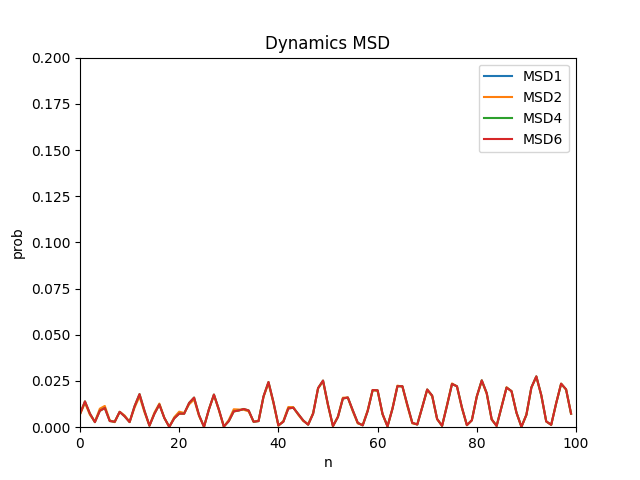
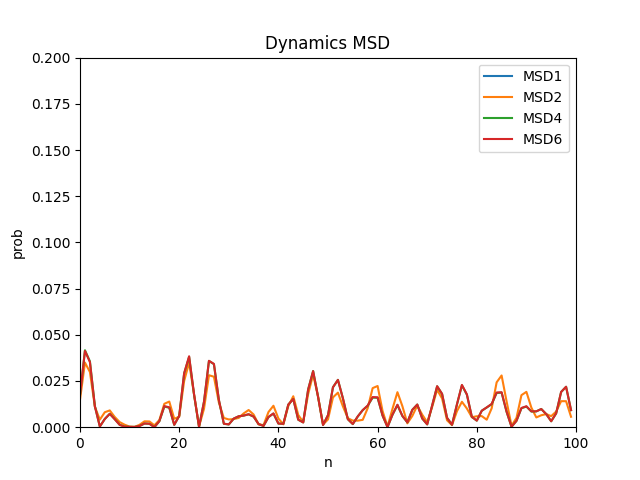
cleaning up codes

Changed region(s): [[0.125, 0.7188, 0.9062, 0.9062]]

diff --git a/python/dynamics.py b/python/dynamics.py
@@ -46,11 +46,7 @@ def H(p):
 # --- Time evolution with Euler method ----
 def MSD1(p,dt):
     global iu
-    q = np.empty_like(p)
-    q = p -iu * dt * H(p)
-    #q = p
-    #print(f'return q ={q}, p = {p}')
-    return q
+    return p -iu * dt * H(p)
 
 # --- Main Program: NROOM ---
 def nroom_program():
@@ -64,42 +60,19 @@ def nroom_program():
     dx = 1.0
     dx2 = dx * dx
     emax = 1.0 / dx2
-    # Ensure M is within a valid range for the cosine argument to avoid division by zero or large values
 
-    ## Get input from user
-    #print('M ALPHA')
-    #try:
-    #    m_input, alpha_input = map(float, input().split())
-    #    m = int(m_input)
-    #    alpha = float(alpha_input)
-    #except ValueError:
-    #    print("Invalid input. Please enter two numbers separated by a space (e.g., '1 0.1').")
-    #    return
-    #
-    #if m <= 0 or m > NMAX:
-    #    print(f"Warning: M ({m}) should be between 1 and NMAX ({NMAX}) for stable calculation of DT.")
-
-    # fix to M=1 and ALPHA=0.1
     m = 1
-    alpha = 0.05
+    alpha = 0.1
     
-    # Calculate DT (time step)
-    # Fortran: DT=ALPHA/(EMAX*COS(M*PI/(NMAX+1)))
-    #cos_term = np.cos(m * PI / (NMAX + 1))
-    #if cos_term == 0:
-    #    print("Error: Division by zero in DT calculation (COS term is zero). Adjust M or NMAX.")
-    #    return
     dt = alpha / emax
 
-    # Calculate MTIME (total time steps)
-    #mtime = (2 * PI / alpha) * 10
-    #mtime = min(int(mtime), 10000) # Ensure MTIME is an integer
-
     # --- Calculation of Hamiltonian ---
-    # HA and HB arrays
     ha = np.zeros(NMAX, dtype=np.float64)
     hb = np.zeros(NMAX - 1, dtype=np.float64)
+    for n in range(NMAX - 1):
+        hb[n] = -0.5 / dx2
 
+    # plot emvironment
     plt.gca().clear()
     plt.title('Dynamics MSD')
     plt.xlabel(r'n')
@@ -110,16 +83,13 @@ def nroom_program():
     plt.ylim([0,20/NMAX])
 
     # dgree of the method
-    #NDEG  = 1
     for NDEG in [1,2,4,6]:
-    #for NDEG in [2]:
         NDEGH = int(np.floor(NDEG/2))
         NDEG1 = NDEG+1
-        for n in range(NMAX - 1):
-            hb[n] = -0.5 / dx2
+
+        # --- Setting Initial Wave Function ---
         phi = np.zeros((NDEG1,NMAX), dtype=np.complex128)
         
-        # --- Setting Initial Wave Function ---
         x0 = 0.3 * dx * NMAX
         sg = 0.05 * dx * NMAX
         pa_momentum = 0.1 * 2 * PI / dx
@@ -128,46 +98,43 @@ def nroom_program():
             phi[np.mod(0,NDEG1),n_idx] = np.exp(-0.5 * (x - x0)**2 / sg**2) * np.exp(iu * pa_momentum * (x - x0))
         anorm = np.linalg.norm(phi[np.mod(0,NDEG1),:])
         phi[np.mod(0,NDEG1),:] = phi[np.mod(0,NDEG1),:] / anorm
-        print(f'NDEG={NDEG},NDEGH={NDEGH},itime={0},anorm={anorm}')
+
+        # -- prepare wave function for t<0
         for itime in range(1,NDEG+1):
             phi[np.mod(-itime,NDEG1),:] = MSD1( phi[np.mod(-itime+1,NDEG1),:] , -dt)
             anorm = np.linalg.norm(phi[np.mod(-itime,NDEG1),:])
             phi[np.mod(-itime,NDEG1),:] = phi[np.mod(-itime,NDEG1),:]
-            print(f'NDEG={NDEG},NDEGH={NDEGH},itime={-itime},anorm={anorm}')
+
         #ph0, em = eigen_subroutine(m, dx, NMAX)
-
-
             
         # --- Time Evolution Loop ---
-        # Open the output file
         try:
-            #with open('tst'+str(NDEG)+'.dat', 'w') as f_out:
-                for itime in range(MTIME):
-                    t = dt * itime
-                    anorm = np.linalg.norm(phi[np.mod(itime,NDEG1)])**2
-                    #ovr = np.vdot(phi[np.mod(itime,NDEG1)], ph0)  * np.exp(-iu * em * t)
-                    print(f'NDEG={NDEG},itime={itime},anorm={anorm}')
+            for itime in range(MTIME):
+                t = dt * itime
+                anorm = np.linalg.norm(phi[np.mod(itime,NDEG1)])**2
+                #ovr = np.vdot(phi[np.mod(itime,NDEG1)], ph0)  * np.exp(-iu * em * t)
+                
+                if(NDEG == 1):
+                    #epsilon_theory = abs(em*dt)**2 / 2.0 
+                    q = phi[np.mod(itime,NDEG1)] /2
+                elif(NDEG == 2):
+                    #epsilon_theory = abs(em*dt)**3 / 6.0 
+                    q = phi[np.mod(itime,NDEG1)]
+                elif(NDEG == 4):
+                    #epsilon_theory = abs(em*dt)**5 * 7.0 / 90.0
+                    q = 2 * (-1.0/3.0 * phi[np.mod(itime-(NDEGH-1),NDEG1)]
+                             + 2.0/3.0 * ( phi[np.mod(itime-(NDEGH-1)+1,NDEG1)] + phi[np.mod(itime-(NDEGH-1)-1,NDEG1)]) )
+                elif(NDEG == 6):
+                    #epsilon_theory = abs(em*dt)**7 * 41.0 / 840.0
+                    q = 3 * ( 13.0/10.0  *   phi[np.mod(itime-(NDEGH-1),NDEG1)]
+                              - 7.0/10.0  * ( phi[np.mod(itime-(NDEGH-1)+1,NDEG1)] + phi[np.mod(itime-(NDEGH-1)-1,NDEG1)]) 
+                              + 11.0/20.0 * ( phi[np.mod(itime-(NDEGH-1)+2,NDEG1)] + phi[np.mod(itime-(NDEGH-1)-2,NDEG1)])  )
+                else:
+                    print(f'wrong NDEG = {NDEG}')
+                    sys.exit()
+
+                phi[np.mod(itime+1,NDEG1)] = -2 * iu * dt * H(q) + phi[np.mod(itime-(NDEG-1),NDEG1)]
                     
-                    if(NDEG == 1):
-                        #epsilon_theory = abs(em*dt)**2 / 2.0 
-                        q = phi[np.mod(itime,NDEG1)] /2
-                    elif(NDEG == 2):
-                        #epsilon_theory = abs(em*dt)**3 / 6.0 
-                        q = phi[np.mod(itime,NDEG1)]
-                    elif(NDEG == 4):
-                        #epsilon_theory = abs(em*dt)**5 * 7.0 / 90.0
-                        q = 2 * (-1.0/3.0 * phi[np.mod(itime-(NDEGH-1),NDEG1)]
-                                 + 2.0/3.0 * ( phi[np.mod(itime-(NDEGH-1)+1,NDEG1)] + phi[np.mod(itime-(NDEGH-1)-1,NDEG1)]) )
-                    elif(NDEG == 6):
-                        #epsilon_theory = abs(em*dt)**7 * 41.0 / 840.0
-                        q = 3 * ( 13.0/10.0  *   phi[np.mod(itime-(NDEGH-1),NDEG1)]
-                                  - 7.0/10.0  * ( phi[np.mod(itime-(NDEGH-1)+1,NDEG1)] + phi[np.mod(itime-(NDEGH-1)-1,NDEG1)]) 
-                                  + 11.0/20.0 * ( phi[np.mod(itime-(NDEGH-1)+2,NDEG1)] + phi[np.mod(itime-(NDEGH-1)-2,NDEG1)])  )
-                    else:
-                        print(f'wrong NDEG = {NDEG}')
-                        sys.exit()
-                    #phi[np.mod(itime+1,NDEG1)] = -2 * iu * dt * H(q) + phi[np.mod(itime-(NDEGH+NDEGH-1),NDEG1)]
-                    phi[np.mod(itime+1,NDEG1)] = -2 * iu * dt * H(q) + phi[np.mod(itime-(NDEG-1),NDEG1)]           
         except Exception as e:
             print(f"An error occurred during file operations: {e}")
                     
@@ -182,7 +149,7 @@ def nroom_program():
     plt.show()
     plt.savefig("dynamics.png")
         
-    print("Program finished. Results written to error"+str(NDEG)+".dat")
+    print("Program finished.")
 
 # Call the main program function
 if __name__ == '__main__':

diff --git a/python/error.py b/python/error.py
@@ -54,27 +54,10 @@ def nroom_program():
     emax = 1.0 / dx2
     # Define complex imaginary unit
     iu = 0.0 + 1.0j
-    # Ensure M is within a valid range for the cosine argument to avoid division by zero or large values
 
-    ## Get input from user
-    #print('M ALPHA')
-    #try:
-    #    m_input, alpha_input = map(float, input().split())
-    #    m = int(m_input)
-    #    alpha = float(alpha_input)
-    #except ValueError:
-    #    print("Invalid input. Please enter two numbers separated by a space (e.g., '1 0.1').")
-    #    return
-    #
-    #if m <= 0 or m > NMAX:
-    #    print(f"Warning: M ({m}) should be between 1 and NMAX ({NMAX}) for stable calculation of DT.")
-
-    # fix to M=1 and ALPHA=0.1
     m = 1
     alpha = 0.1
-    
-    # Calculate DT (time step)
-    # Fortran: DT=ALPHA/(EMAX*COS(M*PI/(NMAX+1)))
+
     cos_term = np.cos(m * PI / (NMAX + 1))
     if cos_term == 0:
         print("Error: Division by zero in DT calculation (COS term is zero). Adjust M or NMAX.")
@@ -86,17 +69,15 @@ def nroom_program():
     mtime = min(int(mtime), 10000) # Ensure MTIME is an integer
 
     # --- Calculation of Hamiltonian ---
-    # HA and HB arrays
     ha = np.zeros(NMAX, dtype=np.float64)
     hb = np.zeros(NMAX - 1, dtype=np.float64)
+    for n in range(NMAX - 1):
+        hb[n] = -0.5 / dx2
 
     # dgree of the method
-    #NDEG  = 1
     for NDEG in [1,2,4,6]:
         NDEGH = int(np.floor(NDEG/2))
         NDEG1 = NDEG+1
-        for n in range(NMAX - 1):
-            hb[n] = -0.5 / dx2
 
         # --- Setting Initial Wave Function ---
         ph0, em = eigen_subroutine(m, dx, NMAX)
@@ -114,7 +95,6 @@ def nroom_program():
                     t = dt * itime
                     anorm = np.linalg.norm(phi[np.mod(itime,NDEG1)])**2
                     ovr = np.vdot(phi[np.mod(itime,NDEG1)], ph0)  * np.exp(-iu * em * t)
-                    
                     
                     if(NDEG == 1):
                         epsilon_theory = abs(em*dt)**2 / 2.0 
@@ -134,7 +114,7 @@ def nroom_program():
                     else:
                         print(f'wrong NDEG = {NDEG}')
                         sys.exit()
-                    #phi[np.mod(itime+1,NDEG1)] = -2 * iu * dt * H(q) + phi[np.mod(itime-(NDEGH+NDEGH-1),NDEG1)]
+
                     phi[np.mod(itime+1,NDEG1)] = -2 * iu * dt * H(q) + phi[np.mod(itime-(NDEG-1),NDEG1)]
                     
                     

diff --git a/python/stability.py b/python/stability.py
@@ -2,16 +2,9 @@ import numpy as np
 import matplotlib.pyplot as plt
 
 # Define the degree of the polynomial
-
 for NDEG in [1,2,4,6]:
-    # Open the output file
-    # Using 'with open' ensures the file is properly closed even if errors occur.
     try:
         with open('stability'+str(NDEG)+'.dat', 'w') as f_out:
-            # Loop for parameter A from 0.0 to 1.0 with a step of 0.01
-            # np.arange handles floating-point steps more reliably than a simple while loop.
-            # Adding a small epsilon to the stop value to ensure 1.0 is included due to
-            # floating point precision issues.
             plot_x = np.arange(0.0, 2.0001, 0.01)
             plot_y = [[] for _ in range(NDEG) ]
             for a_val in plot_x:
@@ -42,13 +35,6 @@ for NDEG in [1,2,4,6]:
                     # Mimicking Fortran's E15.7 format for scientific notation
                     print(f"{a_val:15.7E} {root.real:15.7E} {root.imag:15.7E} {stability_check:15.7E}")
 
-                # Write to the output file
-                # The Fortran code writes all roots on one line for each A value.
-                # We will format the output similarly.
-                # The Fortran format '30E15.7' suggests 30 fields, each 15 chars wide, 7 decimal places.
-                # For NDEG=2, we have A, (REAL(R1), IMAG(R1), ABS(R1)), (REAL(R2), IMAG(R2), ABS(R2))
-                # This makes 1 + 3*NDEG = 1 + 3*2 = 7 fields. The Fortran format is quite generous.
-                # We'll stick to the required number of fields for our output.
                 file_output_line = f"{a_val:15.7E}"
                 for i in range(NDEG):
                     root = roots[i]
